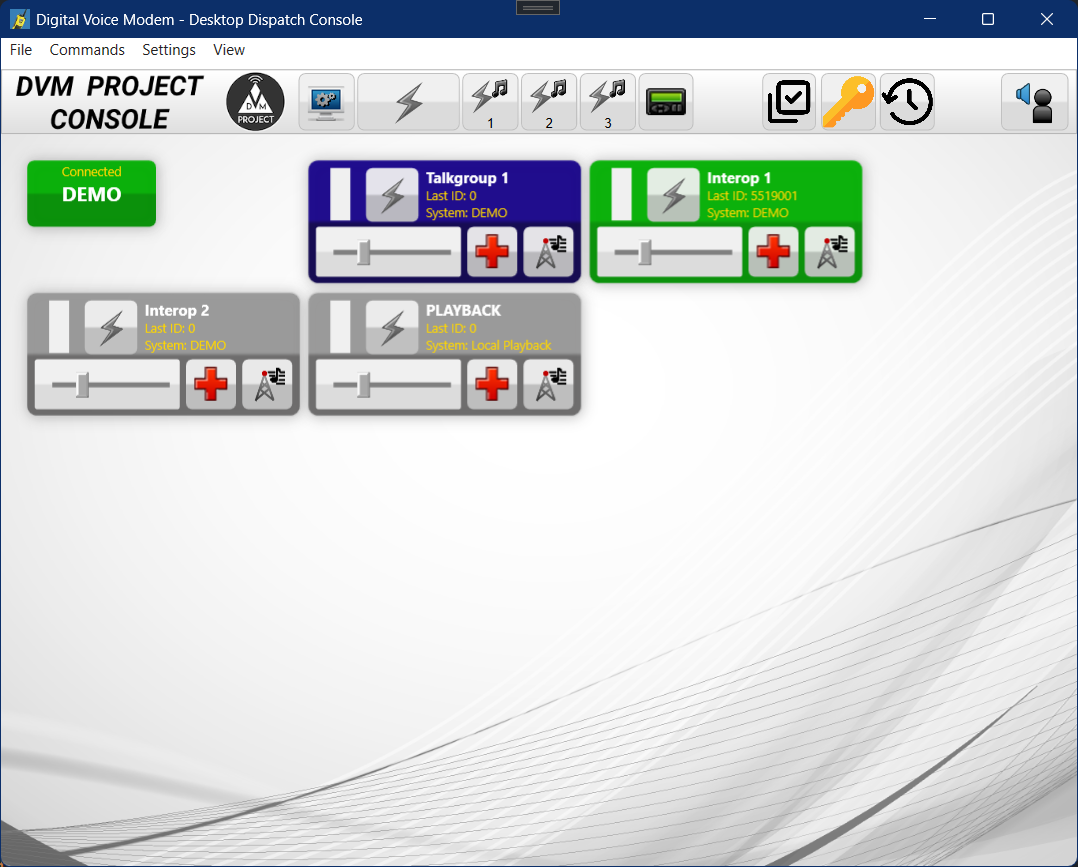
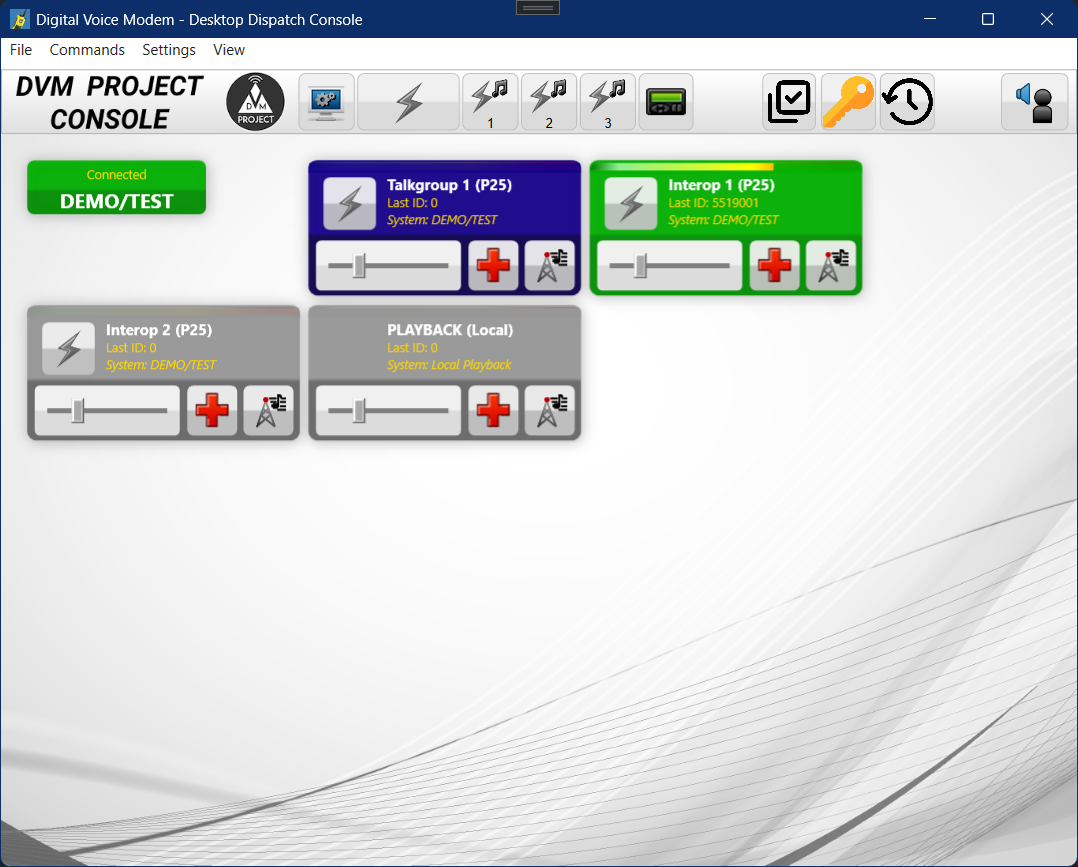
fix offset for channel widgets slightly; update screenshots;

Changed region(s): [[0.0, 0.1869, 0.7959, 0.5294], [0.0306, 0.1557, 0.2143, 0.2803]]

diff --git a/dvmconsole/MainWindow.xaml.cs b/dvmconsole/MainWindow.xaml.cs
@@ -471,7 +471,7 @@ namespace dvmconsole
                         if (offsetX + 220 > channelsCanvas.ActualWidth)
                         {
                             offsetX = 20;
-                            offsetY += 106;
+                            offsetY += 116;
                         }
                     }
                 }
